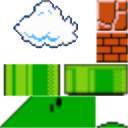
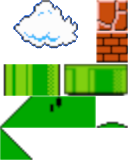
add: mapa nuevo e imagen

diff --git a/04_Physics/tilemap.js b/04_Physics/tilemap.js
@@ -33,14 +33,17 @@ Tilemap.prototype.draw = function ()
 	// Draw the map
 	var tileId;
 	context.imageSmoothingEnabled = false;
-	for(var j=0, pos=0; j<this.map.height; j++)
-		for(var i=0; i<this.map.width; i++, pos++)
-		{
-			tileId = this.map.layers[0].data[pos];
-			if(tileId != 0)
-				context.drawImage(this.tilesheet.img, tilePositions[tileId-1][0], tilePositions[tileId-1][1], blockSize[0], blockSize[1], 
-				                  this.basePos[0] + this.tileSize[0] * i, this.basePos[1] + this.tileSize[1] * j, blockSize[0], blockSize[1]);
-		}
+	for(var lay=0; lay < this.map.layers.length; lay++){
+		for(var j=0, pos=0; j<this.map.height; j++)
+			for(var i=0; i<this.map.width; i++, pos++)
+			{
+				tileId = this.map.layers[lay].data[pos];
+				if(tileId != 0)
+					context.drawImage(this.tilesheet.img, tilePositions[tileId-1][0], tilePositions[tileId-1][1], blockSize[0], blockSize[1], 
+									this.basePos[0] + this.tileSize[0] * i, this.basePos[1] + this.tileSize[1] * j, blockSize[0], blockSize[1]);
+			}
+	}
+	
 }
 
 // Computes if the left part of a sprite collides with the tilemap.

diff --git a/04_Physics/scene.js b/04_Physics/scene.js
@@ -5,10 +5,10 @@
 function Scene()
 {
 	// Loading texture to use in a TileMap
-	var tilesheet = new Texture("imgs/fondo32bits.png");
+	var tilesheet = new Texture("imgs/fondos32bits.png");
 
 	// Create tilemap
-	this.map = new Tilemap(tilesheet, [32, 32], [4, 4], [0, 0], level01);
+	this.map = new Tilemap(tilesheet, [32, 32], [4, 5], [0, 0], level01);
 	
 	// Create entities
 	this.player = new Player(224,0, this.map);

diff --git a/04_Physics/levels/Bloques-Tubo2.tsx b/04_Physics/levels/Bloques-Tubo2.tsx
@@ -1,0 +1,4 @@
+<?xml version="1.0" encoding="UTF-8"?>
+<tileset version="1.10" tiledversion="1.10.2" name="Bloques-Tubo" tilewidth="32" tileheight="32" tilecount="2" columns="2">
+ <image source="Bloques-Tubo.png" width="64" height="32"/>
+</tileset>
